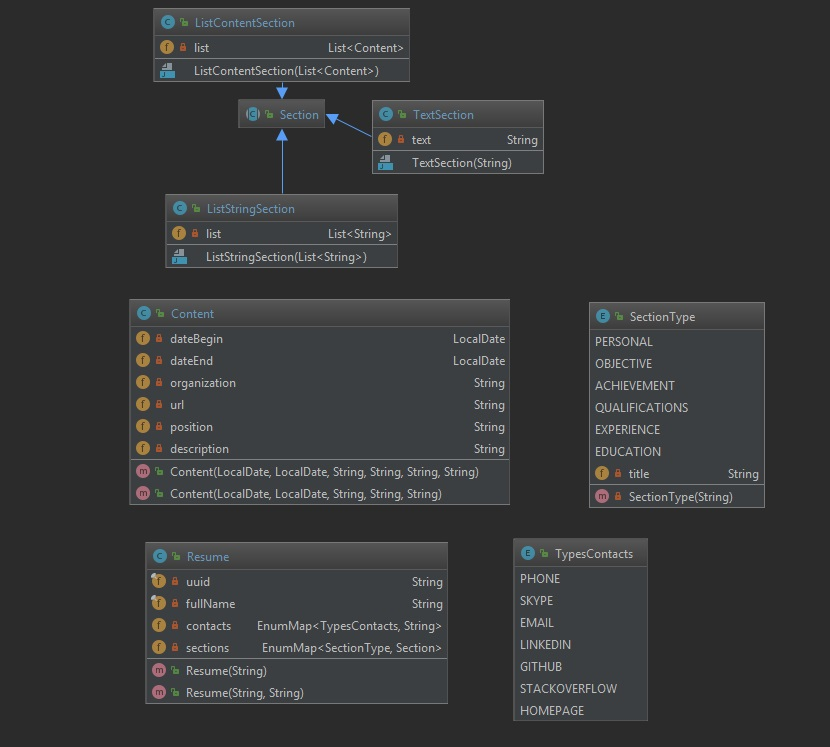
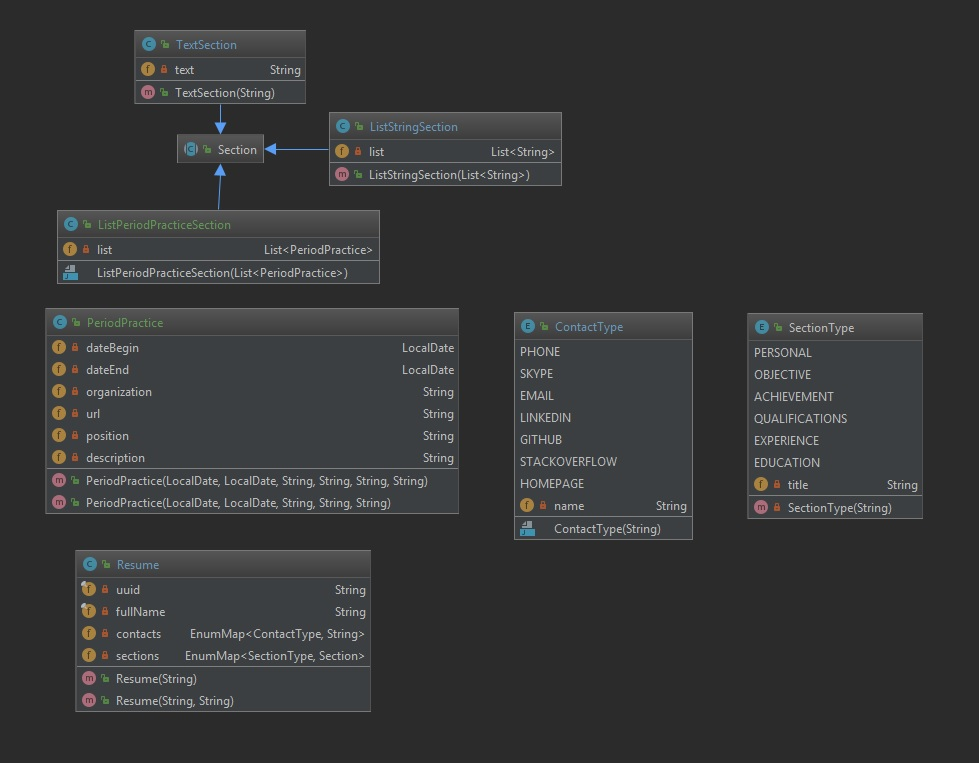
HomeWork07 - refactored ContactType, PeriodPractice, ListPeriodPracticeSection. Changed sections classes

Changed region(s): [[0.0301, 0.4003, 0.9639, 0.9853], [0.0602, 0.0, 0.6627, 0.3695]]

diff --git a/src/TestResume.java b/src/TestResume.java
@@ -7,11 +7,11 @@ public class TestResume {
     public static void main(String[] args) {
         Resume resume = new Resume("Ivan Ivanov");
 
-        EnumMap<TypesContacts, String> contacts = resume.getContacts();
-        contacts.put(TypesContacts.PHONE, "+79999999999");
-        contacts.put(TypesContacts.EMAIL, "tratata@mail.ru");
-        contacts.put(TypesContacts.GITHUB, "https://github.com/IvanIvanov?tab=repositories");
-        contacts.put(TypesContacts.SKYPE, "IvanIvanov");
+        EnumMap<ContactType, String> contacts = resume.getContacts();
+        contacts.put(ContactType.PHONE, "+79999999999");
+        contacts.put(ContactType.EMAIL, "tratata@mail.ru");
+        contacts.put(ContactType.GITHUB, "https://github.com/IvanIvanov?tab=repositories");
+        contacts.put(ContactType.SKYPE, "IvanIvanov");
         resume.setContacts(contacts);
 
         Section personal = new TextSection("Аналитический склад ума, сильная логика, креативность, инициативность. Пурист кода и архитектуры.");
@@ -27,19 +27,19 @@ public class TestResume {
         listQualifications.add("PL/SQL");
         Section qualifications = new ListStringSection(listQualifications);
 
-        Content contentForExperience = new Content(LocalDate.of(2013, 01, 02), LocalDate.of(2015, 01, 02), "SDE", "www.site1.ru", "Аналитик", "Составление ТЗ");
-        Content contentForExperience2 = new Content(LocalDate.of(2015, 01, 03), LocalDate.of(2018, 01, 02), "Alpha", "www.site2.ru", "Тестировщик", "Автоматизированное тестирование");
-        List<Content> listExperience = new ArrayList<>();
-        listExperience.add(contentForExperience);
-        listExperience.add(contentForExperience2);
-        Section experience = new ListContentSection(listExperience);
+        PeriodPractice periodPracticeForExperience = new PeriodPractice(LocalDate.of(2013, 01, 02), LocalDate.of(2015, 01, 02), "SDE", "www.site1.ru", "Аналитик", "Составление ТЗ");
+        PeriodPractice periodPracticeForExperience2 = new PeriodPractice(LocalDate.of(2015, 01, 03), LocalDate.of(2018, 01, 02), "Alpha", "www.site2.ru", "Тестировщик", "Автоматизированное тестирование");
+        List<PeriodPractice> listExperience = new ArrayList<>();
+        listExperience.add(periodPracticeForExperience);
+        listExperience.add(periodPracticeForExperience2);
+        Section experience = new ListPeriodPracticeSection(listExperience);
 
-        Content contentForEducation = new Content(LocalDate.of(2010, 01, 02), LocalDate.of(2012, 01, 02), "Организация1", "www.site3.ru", "Курс1");
-        Content contentForEducation2 = new Content(LocalDate.of(2012, 01, 03), LocalDate.of(2013, 01, 02), "Организация2", "www.site4.ru", "Курс2");
-        List<Content> listEducation = new ArrayList<>();
-        listEducation.add(contentForEducation);
-        listEducation.add(contentForEducation2);
-        Section education = new ListContentSection(listEducation);
+        PeriodPractice periodPracticeForEducation = new PeriodPractice(LocalDate.of(2010, 01, 02), LocalDate.of(2012, 01, 02), "Организация1", "www.site3.ru", "Курс1");
+        PeriodPractice periodPracticeForEducation2 = new PeriodPractice(LocalDate.of(2012, 01, 03), LocalDate.of(2013, 01, 02), "Организация2", "www.site4.ru", "Курс2");
+        List<PeriodPractice> listEducation = new ArrayList<>();
+        listEducation.add(periodPracticeForEducation);
+        listEducation.add(periodPracticeForEducation2);
+        Section education = new ListPeriodPracticeSection(listEducation);
 
         EnumMap<SectionType, Section> sections = resume.getSections();
 

diff --git a/src/model/PeriodPractice.java b/src/model/PeriodPractice.java
@@ -1,0 +1,96 @@
+package model;
+
+import java.time.LocalDate;
+import java.util.Objects;
+
+public class PeriodPractice {
+    private LocalDate dateBegin;
+    private LocalDate dateEnd;
+    private String organization;
+    private String url;
+    private String position;
+    private String description;
+
+    public PeriodPractice(LocalDate dateBegin, LocalDate dateEnd, String organization, String url, String position, String description) {
+        this.dateBegin = dateBegin;
+        this.dateEnd = dateEnd;
+        this.organization = organization;
+        this.url = url;
+        this.position = position;
+        this.description = description;
+    }
+
+    public PeriodPractice(LocalDate dateBegin, LocalDate dateEnd, String organization, String url, String description) {
+        this.dateBegin = dateBegin;
+        this.dateEnd = dateEnd;
+        this.organization = organization;
+        this.url = url;
+        this.description = description;
+    }
+
+    public LocalDate getDateBegin() {
+        return dateBegin;
+    }
+
+    public void setDateBegin(LocalDate dateBegin) {
+        this.dateBegin = dateBegin;
+    }
+
+    public LocalDate getDateEnd() {
+        return dateEnd;
+    }
+
+    public void setDateEnd(LocalDate dateEnd) {
+        this.dateEnd = dateEnd;
+    }
+
+    public String getOrganization() {
+        return organization;
+    }
+
+    public void setOrganization(String organization) {
+        this.organization = organization;
+    }
+
+    public String getUrl() {
+        return url;
+    }
+
+    public void setUrl(String url) {
+        this.url = url;
+    }
+
+    public String getPosition() {
+        return position;
+    }
+
+    public void setPosition(String position) {
+        this.position = position;
+    }
+
+    public String getDescription() {
+        return description;
+    }
+
+    public void setDescription(String description) {
+        this.description = description;
+    }
+
+    @Override
+    public boolean equals(Object o) {
+        if (this == o) return true;
+        if (o == null || getClass() != o.getClass()) return false;
+        PeriodPractice periodPractice = (PeriodPractice) o;
+        return Objects.equals(dateBegin, periodPractice.dateBegin) &&
+                Objects.equals(dateEnd, periodPractice.dateEnd) &&
+                Objects.equals(organization, periodPractice.organization) &&
+                Objects.equals(url, periodPractice.url) &&
+                Objects.equals(position, periodPractice.position) &&
+                Objects.equals(description, periodPractice.description);
+    }
+
+    @Override
+    public int hashCode() {
+        return Objects.hash(dateBegin, dateEnd, organization, url, position, description);
+    }
+}

diff --git a/src/model/ListPeriodPracticeSection.java b/src/model/ListPeriodPracticeSection.java
@@ -3,18 +3,18 @@ package model;
 import java.util.List;
 import java.util.Objects;
 
-public class ListStringSection extends Section{
-    private List<String> list;
+public class ListPeriodPracticeSection extends Section{
+    private List<PeriodPractice> list;
 
-    public ListStringSection(List<String> list) {
+    public ListPeriodPracticeSection(List<PeriodPractice> list) {
         this.list = list;
     }
 
-    public List<String> getList() {
+    public List<PeriodPractice> getList() {
         return list;
     }
 
-    public void setList(List<String> list) {
+    public void setList(List<PeriodPractice> list) {
         this.list = list;
     }
 
@@ -22,7 +22,7 @@ public class ListStringSection extends Section{
     public boolean equals(Object o) {
         if (this == o) return true;
         if (o == null || getClass() != o.getClass()) return false;
-        ListStringSection that = (ListStringSection) o;
+        ListPeriodPracticeSection that = (ListPeriodPracticeSection) o;
         return Objects.equals(list, that.list);
     }
 

diff --git a/src/model/Resume.java b/src/model/Resume.java
@@ -12,7 +12,7 @@ public class Resume implements Comparable<Resume> {
 
     private final String fullName;
 
-    private EnumMap<TypesContacts, String> contacts = new EnumMap<>(TypesContacts.class);
+    private EnumMap<ContactType, String> contacts = new EnumMap<>(ContactType.class);
 
     private EnumMap<SectionType, Section> sections = new EnumMap<>(SectionType.class);
 
@@ -27,11 +27,11 @@ public class Resume implements Comparable<Resume> {
         this.fullName = fullName;
     }
 
-    public EnumMap<TypesContacts, String> getContacts() {
+    public EnumMap<ContactType, String> getContacts() {
         return contacts;
     }
 
-    public void setContacts(EnumMap<TypesContacts, String> contacts) {
+    public void setContacts(EnumMap<ContactType, String> contacts) {
         this.contacts = contacts;
     }
 

diff --git a/src/model/TextSection.java b/src/model/TextSection.java
@@ -1,11 +1,32 @@
 package model;
 
-import javax.xml.soap.Text;
+import java.util.Objects;
 
 public class TextSection extends Section {
     private String text;
 
     public TextSection(String text) {
         this.text = text;
+    }
+
+    public String getText() {
+        return text;
+    }
+
+    public void setText(String text) {
+        this.text = text;
+    }
+
+    @Override
+    public boolean equals(Object o) {
+        if (this == o) return true;
+        if (o == null || getClass() != o.getClass()) return false;
+        TextSection that = (TextSection) o;
+        return Objects.equals(text, that.text);
+    }
+
+    @Override
+    public int hashCode() {
+        return Objects.hash(text);
     }
 }

diff --git a/src/model/ContactType.java b/src/model/ContactType.java
@@ -1,0 +1,21 @@
+package model;
+
+public enum ContactType {
+    PHONE("Номер телефона"),
+    SKYPE("Аккаунт Скайп"),
+    EMAIL("Почтовый ящик"),
+    LINKEDIN("Профиль на LinkedIn"),
+    GITHUB("Профиль на github.com"),
+    STACKOVERFLOW("Профиль на StackOverflow"),
+    HOMEPAGE("Домашняя страница");
+
+    private String name;
+
+    ContactType(String name) {
+        this.name = name;
+    }
+
+    public String getName() {
+        return name;
+    }
+}

diff --git a/lesson/lesson1.md b/lesson/lesson1.md
@@ -30,7 +30,7 @@
 ## ![video](https://cloud.githubusercontent.com/assets/13649199/13672715/06dbc6ce-e6e7-11e5-81a9-04fbddb9e488.png) 3. [Обзор языка Java](https://drive.google.com/open?id=0B_4NpoQW1xfpTU5SSElhUjlGNnc)
 - [Java](http://ru.wikipedia.org/wiki/Java), [JVM](http://ru.wikipedia.org/wiki/Виртуальная_машина_Java), [JIT-компиляция](http://ru.wikipedia.org/wiki/JIT) (wiki)
 - [Что такое Java? История создания](http://www.intuit.ru/studies/courses/16/16/lecture/27105)
-- [Programming languages TIOBE Index](http://www.tiobe.com/index.php/content/paperinfo/tpci/index.html)
+- [Programming languages TIOBE Index](http://www.tiobe.com/index.php/periodPractice/paperinfo/tpci/index.html)
 
 ![jvm](https://cloud.githubusercontent.com/assets/18701152/15219296/e6c67e86-186b-11e6-986f-651a87deec6c.png)
 

diff --git a/lesson/lesson11.md b/lesson/lesson11.md
@@ -2,7 +2,7 @@
 # Одиннадцатое занятие
 
 ## Многопоточность. Параллельное выполнение.
-![Закон Мура](https://www.karlrupp.net/wp-content/uploads/2015/06/40-years-processor-trend.png)
+![Закон Мура](https://www.karlrupp.net/wp-periodPractice/uploads/2015/06/40-years-processor-trend.png)
 - <a href="https://ru.wikipedia.org/wiki/Закон_Мура">Закон Мура</a>
 - <a href="https://ru.wikipedia.org/wiki/Закон_Амдала">Закон Амдала</a>
 
